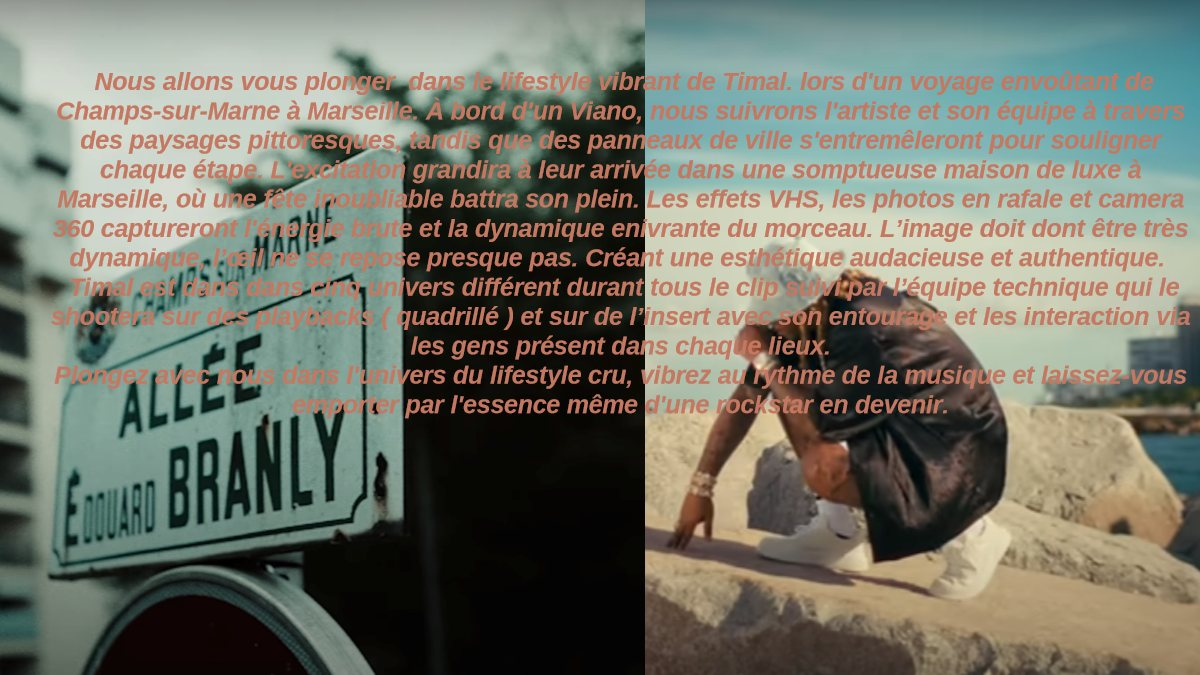
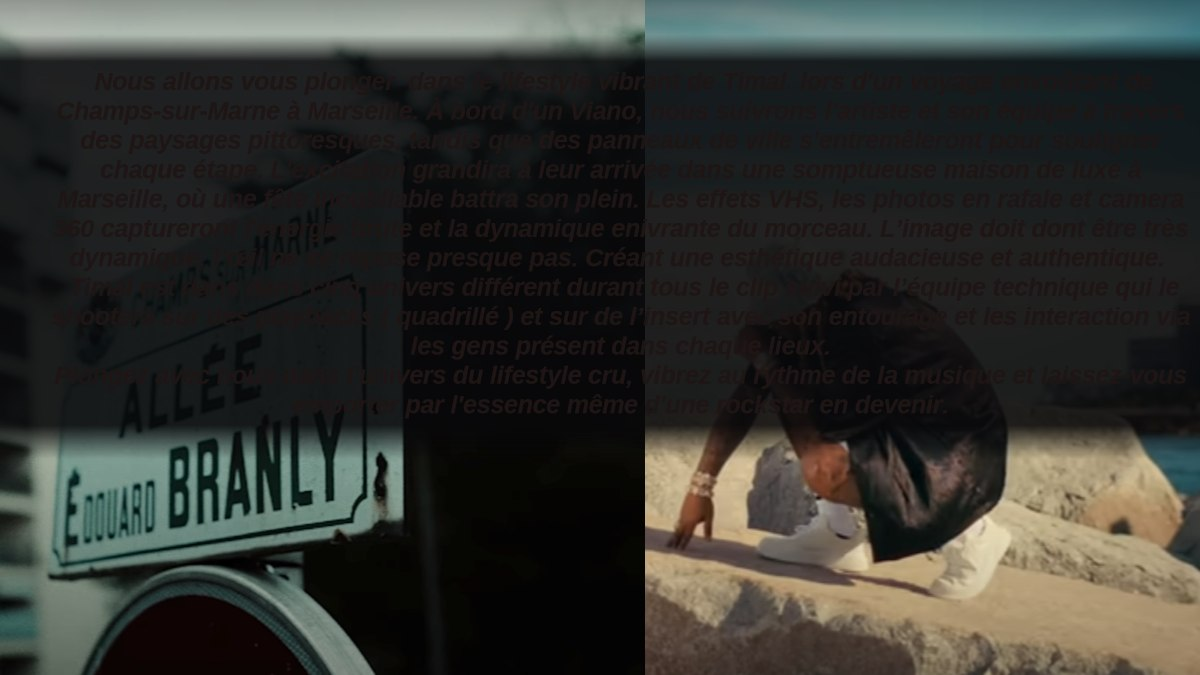
Enlarge the Timal synopsis, drop the Batbat photo, darken syno text
- Pull the Timal moodboard out of the narrow 340px sequence column
  into its own .moodboard-feature block (520px, same treatment as
  the Générations video-feature) so it reads as a real document
  instead of a thumbnail among others
- Remove the Nocolor/Batbat photo step from the Image sequence
- Bake a feathered dark band behind the synopsis text on page 2
  (images/timal-synopsis-02.jpg) for readability — full reprocess
  from the source PDF render, not a CSS overlay, so it also holds up
  in the lightbox zoom

diff --git a/index.html b/index.html
@@ -537,6 +537,19 @@
     padding:1px 5px;
   }
   .sequence__caption{ margin-top:14px; }
+
+  /* Le synopsis Timal vit hors de la colonne étroite de la séquence
+     (340px) : plus large, comme .video-feature pour Générations —
+     une pièce qui mérite d'être vue en grand plutôt que réduite à
+     une vignette parmi d'autres. */
+  .moodboard-feature{
+    margin-top:40px;
+    margin-left:auto;
+    max-width:520px;
+  }
+  @media (max-width:820px){
+    .moodboard-feature{ max-width:100%; margin-left:0; }
+  }
   .sequence__title{
     font-family:var(--font-display); font-weight:700;
     font-size:16.5px; color:var(--fg); margin:0;
@@ -1033,35 +1046,10 @@
         </div>
         <span class="sequence__arrow">&darr;</span>
         <div class="sequence__step">
-          <img class="proof-tile sequence__media" src="images/image-photo-batbat.jpg" alt="Photo plateau, Batbat" loading="lazy">
-          <div class="sequence__caption">
-            <p class="sequence__title">Nocolor</p>
-            <span class="sequence__role">Photographie plateau</span>
-          </div>
-        </div>
-        <span class="sequence__arrow">&darr;</span>
-        <div class="sequence__step">
           <img class="proof-tile sequence__media" src="images/image-cover-leto-pessas.jpg" alt="Cover, Leto, Enlève tes Pessas" loading="lazy">
           <div class="sequence__caption">
             <p class="sequence__title">Leto, "Enlève tes Pessas"</p>
             <span class="sequence__role">Photographie / DA image</span>
-          </div>
-        </div>
-        <span class="sequence__arrow">&darr;</span>
-        <div class="sequence__step">
-          <div class="sequence__moodboard">
-            <div class="sequence__page">
-              <img class="proof-tile sequence__media" src="images/timal-synopsis-01.jpg" alt="Synopsis Timal, page de titre" loading="lazy">
-              <span class="sequence__page-num">01</span>
-            </div>
-            <div class="sequence__page">
-              <img class="proof-tile sequence__media" src="images/timal-synopsis-02.jpg" alt="Synopsis Timal, texte du concept" loading="lazy">
-              <span class="sequence__page-num">02</span>
-            </div>
-          </div>
-          <div class="sequence__caption">
-            <p class="sequence__title">Timal, "760"</p>
-            <span class="sequence__role">Synopsis / moodboard</span>
           </div>
         </div>
         <span class="sequence__arrow">&darr;</span>
@@ -1071,6 +1059,26 @@
             <p class="sequence__title">V2V, "Crapuleux"</p>
             <span class="sequence__role">Co-réalisation</span>
           </div>
+        </div>
+      </div>
+
+      <!-- Le synopsis Timal est sorti de la séquence étroite (340px)
+           et agrandi : c'est un vrai document de travail, pas une
+           vignette parmi d'autres. -->
+      <div class="moodboard-feature">
+        <div class="sequence__moodboard">
+          <div class="sequence__page">
+            <img class="proof-tile sequence__media" src="images/timal-synopsis-01.jpg" alt="Synopsis Timal, page de titre" loading="lazy">
+            <span class="sequence__page-num">01</span>
+          </div>
+          <div class="sequence__page">
+            <img class="proof-tile sequence__media" src="images/timal-synopsis-02.jpg" alt="Synopsis Timal, texte du concept" loading="lazy">
+            <span class="sequence__page-num">02</span>
+          </div>
+        </div>
+        <div class="sequence__caption">
+          <p class="sequence__title">Timal, "760"</p>
+          <span class="sequence__role">Synopsis / moodboard</span>
         </div>
       </div>
 
